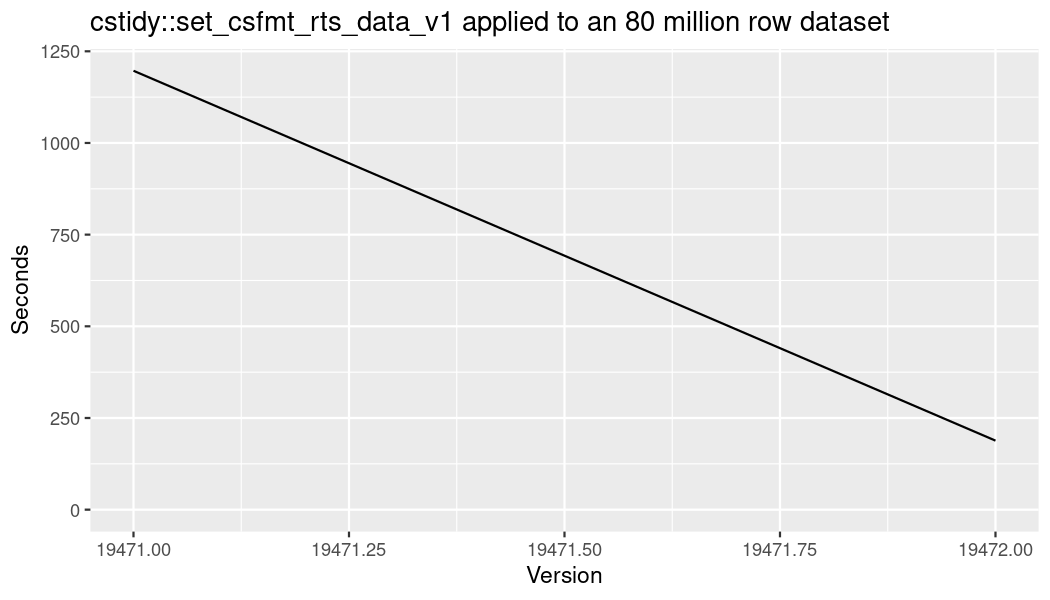
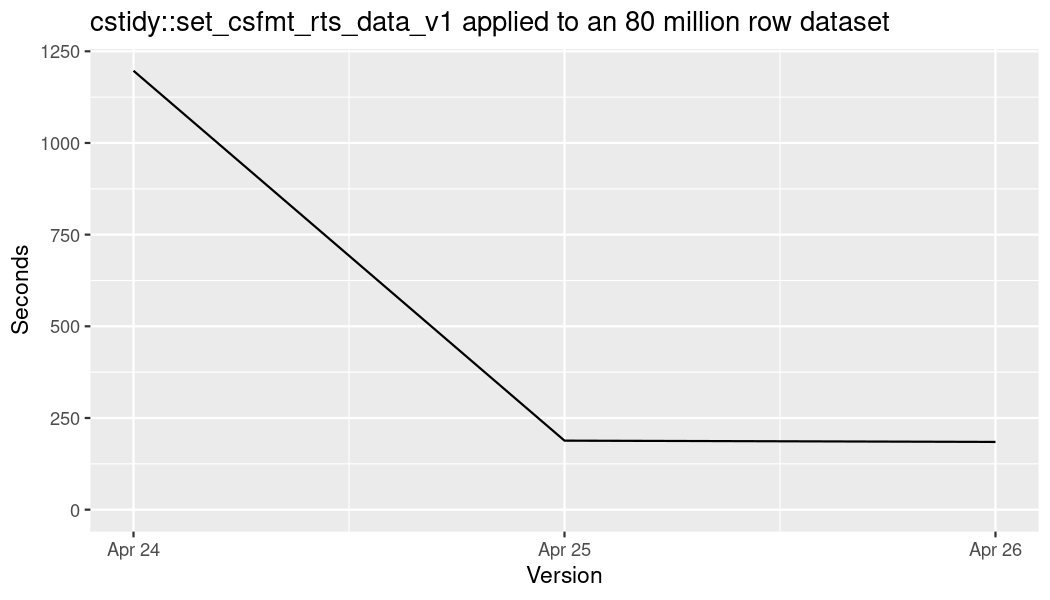
`cstidy::set_csfmt_rts_data_v1` is now 1.5x faster due to using the upgraded `cstime` package that now uses binary searches. An 80 million row dataset is now processed in 2 minutes, instead of 3.

diff --git a/NEWS.md b/NEWS.md
@@ -1,3 +1,7 @@
+# Version 2023.4.26
+
+- `cstidy::set_csfmt_rts_data_v1` is now 1.5x faster due to using the upgraded `cstime` package that now uses binary searches. An 80 million row dataset is now processed in 2 minutes, instead of 3.
+
 # Version 2023.4.25
 
 - `cstidy::set_csfmt_rts_data_v1` is now 6x faster due to using the upgraded `cstime` package that now uses `csutil::apply_fn_via_hash_table`. An 80 million row dataset is now processed in 3 minutes, instead of 20.
